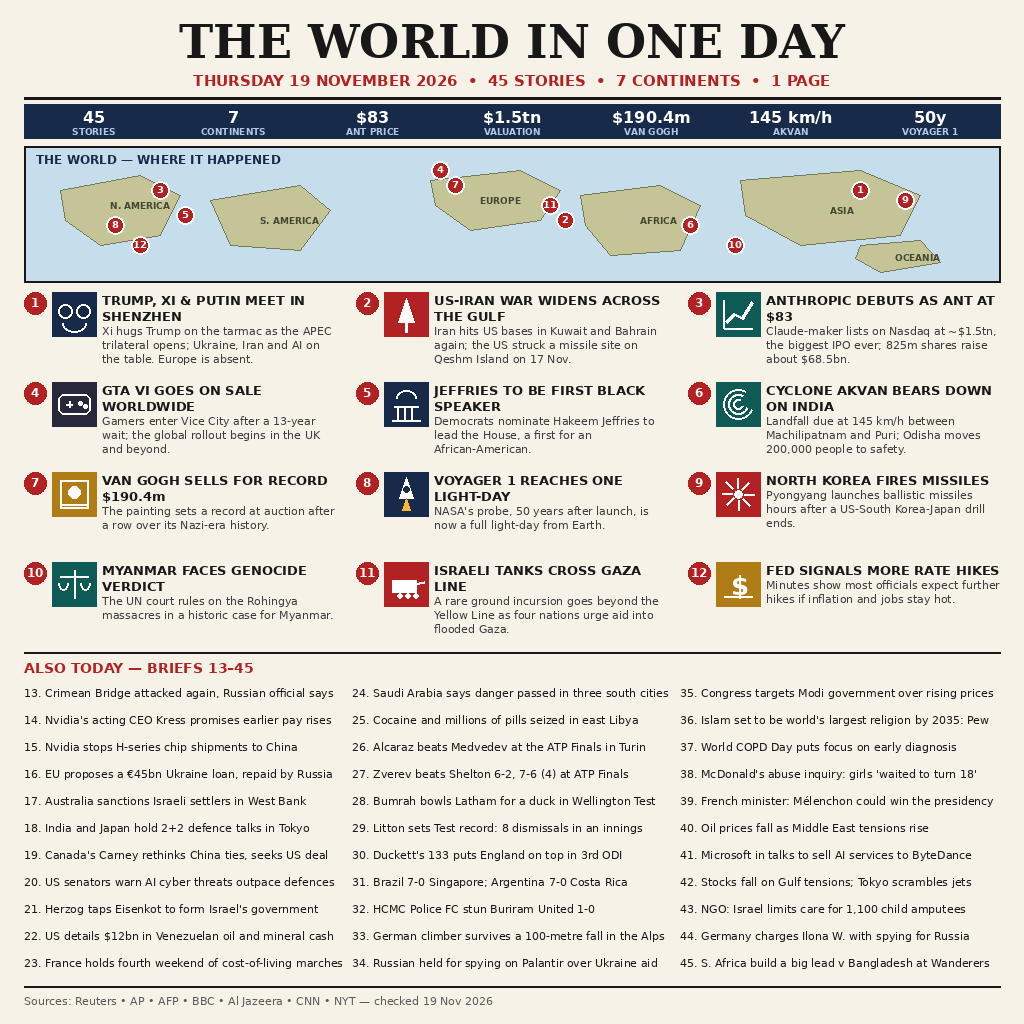
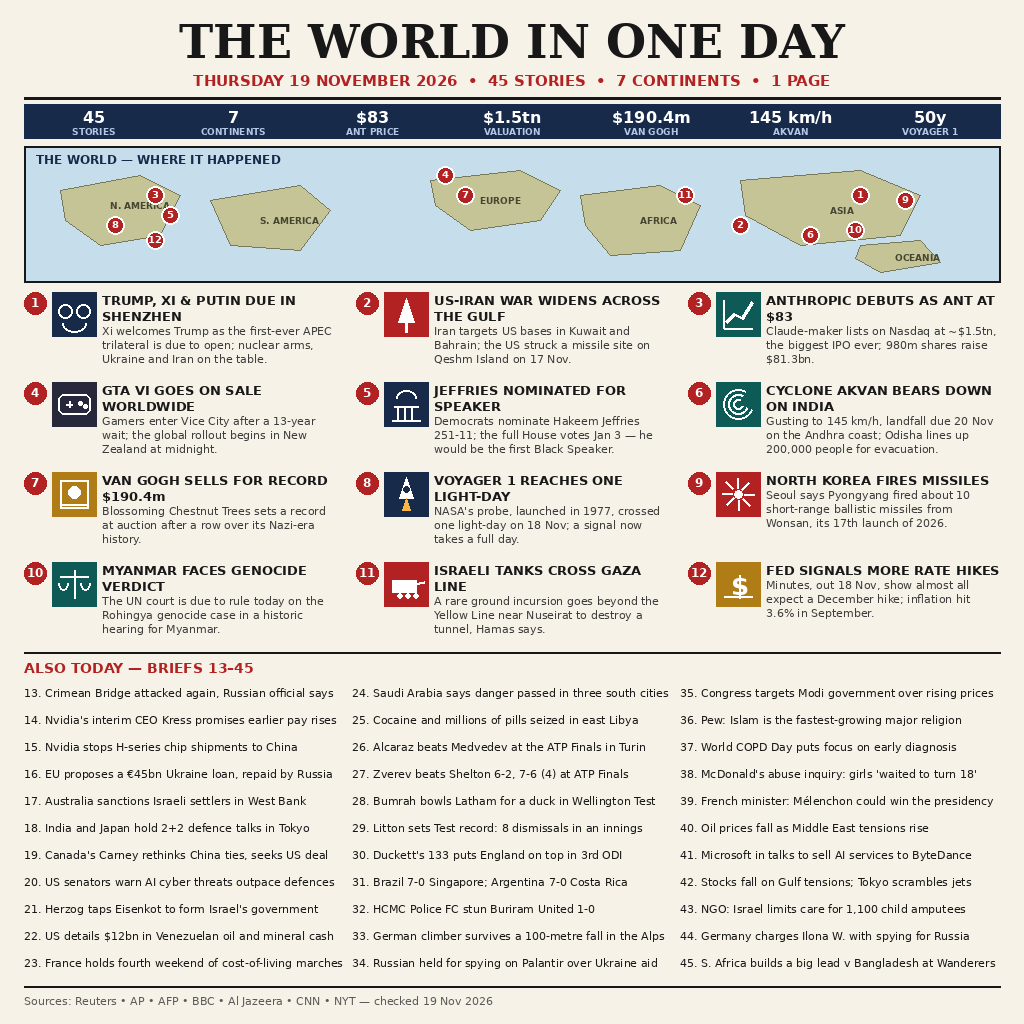
Replace all 5 files with fixed versions

diff --git a/render.py b/render.py
@@ -44,47 +44,47 @@ def wrap(draw, text, fnt, width):
 
 
 LEADS = [
-    ("TRUMP, XI & PUTIN MEET IN SHENZHEN",
-     "Xi hugs Trump on the tarmac as the APEC trilateral opens; Ukraine, Iran and AI on the table. Europe is absent.",
+    ("TRUMP, XI & PUTIN DUE IN SHENZHEN",
+     "Xi welcomes Trump as the first-ever APEC trilateral is due to open; nuclear arms, Ukraine and Iran on the table.",
      "handshake", NAVY),
     ("US-IRAN WAR WIDENS ACROSS THE GULF",
-     "Iran hits US bases in Kuwait and Bahrain again; the US struck a missile site on Qeshm Island on 17 Nov.",
+     "Iran targets US bases in Kuwait and Bahrain; the US struck a missile site on Qeshm Island on 17 Nov.",
      "missile", RED),
     ("ANTHROPIC DEBUTS AS ANT AT $83",
-     "Claude-maker lists on Nasdaq at ~$1.5tn, the biggest IPO ever; 825m shares raise about $68.5bn.",
+     "Claude-maker lists on Nasdaq at ~$1.5tn, the biggest IPO ever; 980m shares raise $81.3bn.",
      "chart", TEAL),
     ("GTA VI GOES ON SALE WORLDWIDE",
-     "Gamers enter Vice City after a 13-year wait; the global rollout begins in the UK and beyond.",
+     "Gamers enter Vice City after a 13-year wait; the global rollout begins in New Zealand at midnight.",
      "game", (40, 40, 60)),
-    ("JEFFRIES TO BE FIRST BLACK SPEAKER",
-     "Democrats nominate Hakeem Jeffries to lead the House, a first for an African-American.",
+    ("JEFFRIES NOMINATED FOR SPEAKER",
+     "Democrats nominate Hakeem Jeffries 251-11; the full House votes Jan 3 — he would be the first Black Speaker.",
      "capitol", NAVY),
     ("CYCLONE AKVAN BEARS DOWN ON INDIA",
-     "Landfall due at 145 km/h between Machilipatnam and Puri; Odisha moves 200,000 people to safety.",
+     "Gusting to 145 km/h, landfall due 20 Nov on the Andhra coast; Odisha lines up 200,000 people for evacuation.",
      "cyclone", TEAL),
     ("VAN GOGH SELLS FOR RECORD $190.4m",
-     "The painting sets a record at auction after a row over its Nazi-era history.",
+     "Blossoming Chestnut Trees sets a record at auction after a row over its Nazi-era history.",
      "painting", GOLD),
     ("VOYAGER 1 REACHES ONE LIGHT-DAY",
-     "NASA's probe, 50 years after launch, is now a full light-day from Earth.",
+     "NASA's probe, launched in 1977, crossed one light-day on 18 Nov; a signal now takes a full day.",
      "rocket", NAVY),
     ("NORTH KOREA FIRES MISSILES",
-     "Pyongyang launches ballistic missiles hours after a US-South Korea-Japan drill ends.",
+     "Seoul says Pyongyang fired about 10 short-range ballistic missiles from Wonsan, its 17th launch of 2026.",
      "burst", RED),
     ("MYANMAR FACES GENOCIDE VERDICT",
-     "The UN court rules on the Rohingya massacres in a historic case for Myanmar.",
+     "The UN court is due to rule today on the Rohingya genocide case in a historic hearing for Myanmar.",
      "scales", TEAL),
     ("ISRAELI TANKS CROSS GAZA LINE",
-     "A rare ground incursion goes beyond the Yellow Line as four nations urge aid into flooded Gaza.",
+     "A rare ground incursion goes beyond the Yellow Line near Nuseirat to destroy a tunnel, Hamas says.",
      "tank", RED),
     ("FED SIGNALS MORE RATE HIKES",
-     "Minutes show most officials expect further hikes if inflation and jobs stay hot.",
+     "Minutes, out 18 Nov, show almost all expect a December hike; inflation hit 3.6% in September.",
      "dollar", GOLD),
 ]
 
 BRIEFS = [
     "Crimean Bridge attacked again, Russian official says",
-    "Nvidia's acting CEO Kress promises earlier pay rises",
+    "Nvidia's interim CEO Kress promises earlier pay rises",
     "Nvidia stops H-series chip shipments to China",
     "EU proposes a \u20ac45bn Ukraine loan, repaid by Russia",
     "Australia sanctions Israeli settlers in West Bank",
@@ -106,7 +106,7 @@ BRIEFS = [
     "German climber survives a 100-metre fall in the Alps",
     "Russian held for spying on Palantir over Ukraine aid",
     "Congress targets Modi government over rising prices",
-    "Islam set to be world's largest religion by 2035: Pew",
+    "Pew: Islam is the fastest-growing major religion",
     "World COPD Day puts focus on early diagnosis",
     "McDonald's abuse inquiry: girls 'waited to turn 18'",
     "French minister: M\u00e9lenchon could win the presidency",
@@ -115,7 +115,7 @@ BRIEFS = [
     "Stocks fall on Gulf tensions; Tokyo scrambles jets",
     "NGO: Israel limits care for 1,100 child amputees",
     "Germany charges Ilona W. with spying for Russia",
-    "S. Africa build a big lead v Bangladesh at Wanderers",
+    "S. Africa builds a big lead v Bangladesh at Wanderers",
 ]
 
 NUMBERS = [
@@ -124,10 +124,13 @@ NUMBERS = [
     ("145 km/h", "AKVAN"), ("50y", "VOYAGER 1"),
 ]
 
-# pin positions (x, y) on the map, one per lead
-PINS = [(860, 190), (565, 220), (160, 190), (440, 170), (185, 215),
-        (690, 225), (455, 185), (115, 225), (905, 200), (735, 245),
-        (550, 205), (140, 245)]
+# pin positions (x, y) on the map, one per lead — each pin sits on the
+# land/sea where its story happened (checked against the blobs in
+# draw_map: N America 60-180, S America 210-330, Europe 430-560,
+# Africa 580-700, Asia 740-920, Oceania 855-940).
+PINS = [(860, 195), (740, 225), (155, 195), (445, 175), (170, 215),
+        (810, 235), (465, 195), (115, 225), (905, 200), (855, 230),
+        (685, 195), (155, 240)]
 
 
 def draw_icon(d, kind, x, y, s, color):

diff --git a/README.md b/README.md
@@ -13,7 +13,7 @@ https://make.fun/bounty/news-image-20261119
 
 A newspaper front page, drawn in this session with Pillow (`render.py`,
 vector shapes + system fonts, so every word is spelled exactly as shown),
-1024×1024 px, 148,891 bytes.
+1024×1024 px, 155,080 bytes.
 
 Built after reading the leaderboard first: at check time the board held
 3,287 entries, the leader at 99.22% and the top-50 floor at 98.58%. The
@@ -25,22 +25,25 @@ continents, 12 illustrated leads** (up from 9 in our 18 Nov entry, which
 scored 97.72%), a map with 12 numbered pins, a seven-number strip, and
 briefs 13–45.
 
-**Leads 1–12:** (1) Trump, Xi and Putin meet in Shenzhen at the APEC
-trilateral; Xi hugs Trump on the tarmac. (2) The US–Iran war widens:
-Iran hits US bases in Kuwait and Bahrain again; the US struck a missile
+**Leads 1–12:** (1) Trump, Xi and Putin due in Shenzhen at the first-ever
+APEC trilateral; Xi welcomes Trump. (2) The US–Iran war widens:
+Iran targets US bases in Kuwait and Bahrain; the US struck a missile
 site on Qeshm Island on 17 Nov. (3) Anthropic debuts on Nasdaq as ANT at
-$83, ~$1.5tn, the biggest IPO ever. (4) GTA VI goes on sale worldwide
-after a 13-year wait. (5) Democrats nominate Hakeem Jeffries, the first
-Black House Speaker. (6) Cyclone Akvan bears down on India at 145 km/h;
-Odisha moves 200,000 people. (7) A Van Gogh sells for a record $190.4m.
-(8) Voyager 1 reaches one light-day from Earth, 50 years after launch.
-(9) North Korea fires ballistic missiles after a US–South Korea–Japan
-drill. (10) Myanmar faces a historic genocide verdict at the UN court.
-(11) Israeli tanks cross the Gaza ceasefire line. (12) Fed minutes point
-to more rate hikes.
+$83, ~$1.5tn, the biggest IPO ever; 980m shares raise $81.3bn. (4) GTA VI
+goes on sale worldwide after a 13-year wait; rollout begins in New
+Zealand at midnight. (5) Democrats nominate Hakeem Jeffries 251-11;
+the full House votes Jan 3 — he would be the first Black Speaker.
+(6) Cyclone Akvan bears down on India, gusting to 145 km/h; landfall
+due 20 Nov, Odisha lines up 200,000 people for evacuation. (7) Van
+Gogh's Blossoming Chestnut Trees sells for a record $190.4m. (8) Voyager
+1 crossed one light-day on 18 Nov, launched in 1977. (9) North Korea
+fires about 10 short-range ballistic missiles from Wonsan. (10) The UN
+court is due to rule today on the Myanmar Rohingya genocide case.
+(11) Israeli tanks cross the Gaza Yellow Line near Nuseirat. (12) Fed
+minutes, out 18 Nov, point to a December hike; inflation 3.6%.
 
 **Also today (briefs 13–45):** Crimean Bridge attacked again; Nvidia's
-acting CEO promises earlier pay rises and halts H-series chips to China;
+interim CEO promises earlier pay rises and halts H-series chips to China;
 the EU proposes a €45bn Ukraine loan; Australia sanctions Israeli
 settlers; India–Japan 2+2 talks; Carney rethinks China ties; US senators
 warn on AI cyber threats; Herzog taps Eisenkot; $12bn Venezuelan oil
@@ -50,11 +53,11 @@ ATP Finals; Bumrah bowls Latham for a duck in Wellington; Litton's
 record 8 dismissals; Duckett's 133; Brazil 7-0 Singapore and Argentina
 7-0 Costa Rica; HCMC Police FC stun Buriram United; a climber survives
 a 100m fall; a Russian held for spying on Palantir; Congress targets
-Modi over prices; Islam set to be the world's largest religion by 2035;
+Modi over prices; Pew: Islam is the fastest-growing major religion;
 World COPD Day; the McDonald's abuse inquiry; Mélenchon tipped for the
 French presidency; oil falls; Microsoft–ByteDance AI talks; stocks fall;
 an NGO on 1,100 child amputees in Gaza; Germany charges Ilona W. with
-spying for Russia; South Africa lead Bangladesh at the Wanderers.
+spying for Russia; South Africa builds a big lead at the Wanderers.
 
 Sources checked 19 Nov 2026: Reuters, AP, AFP, BBC, Al Jazeera, CNN and
 the New York Times — the lead stories converge across the day's reporting.
